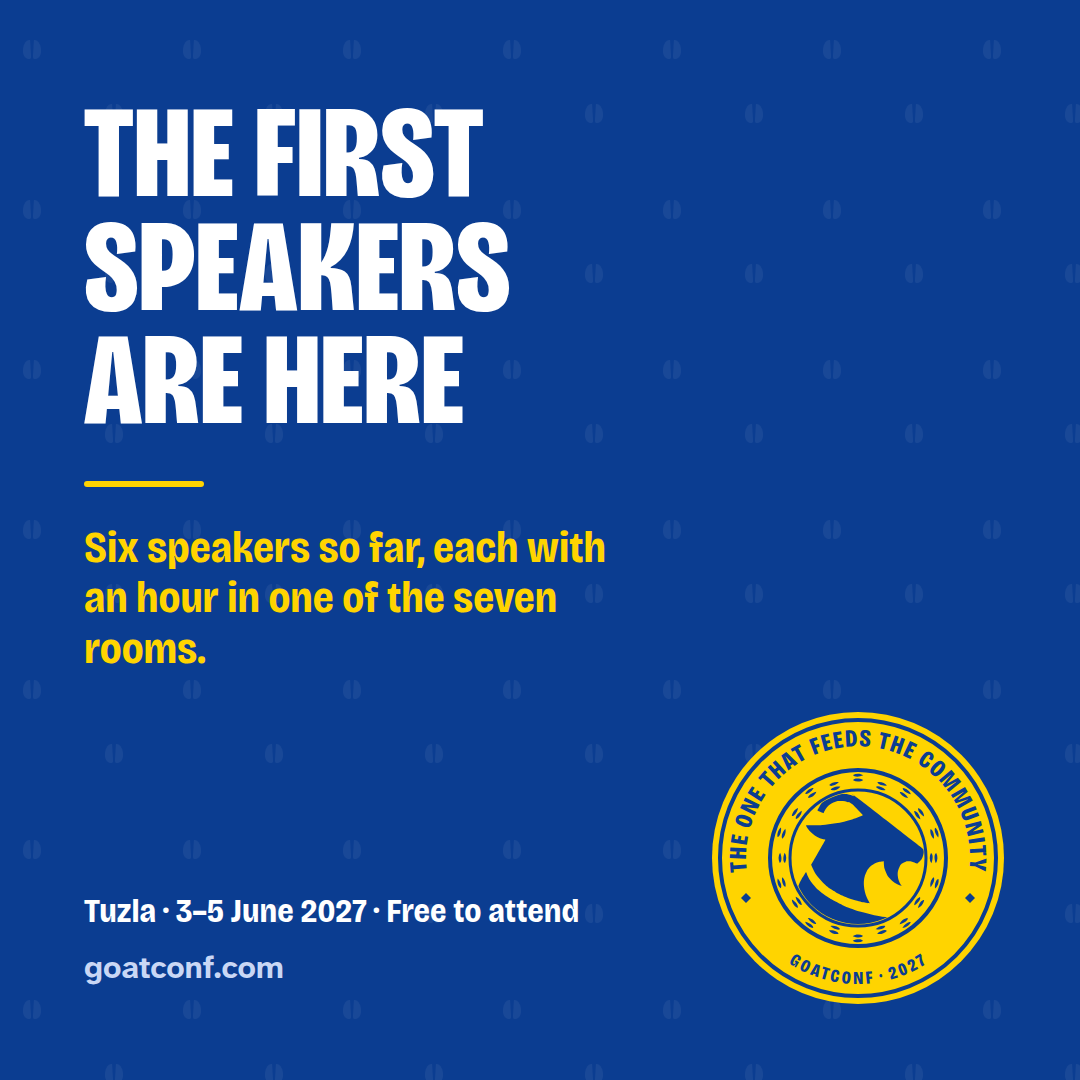
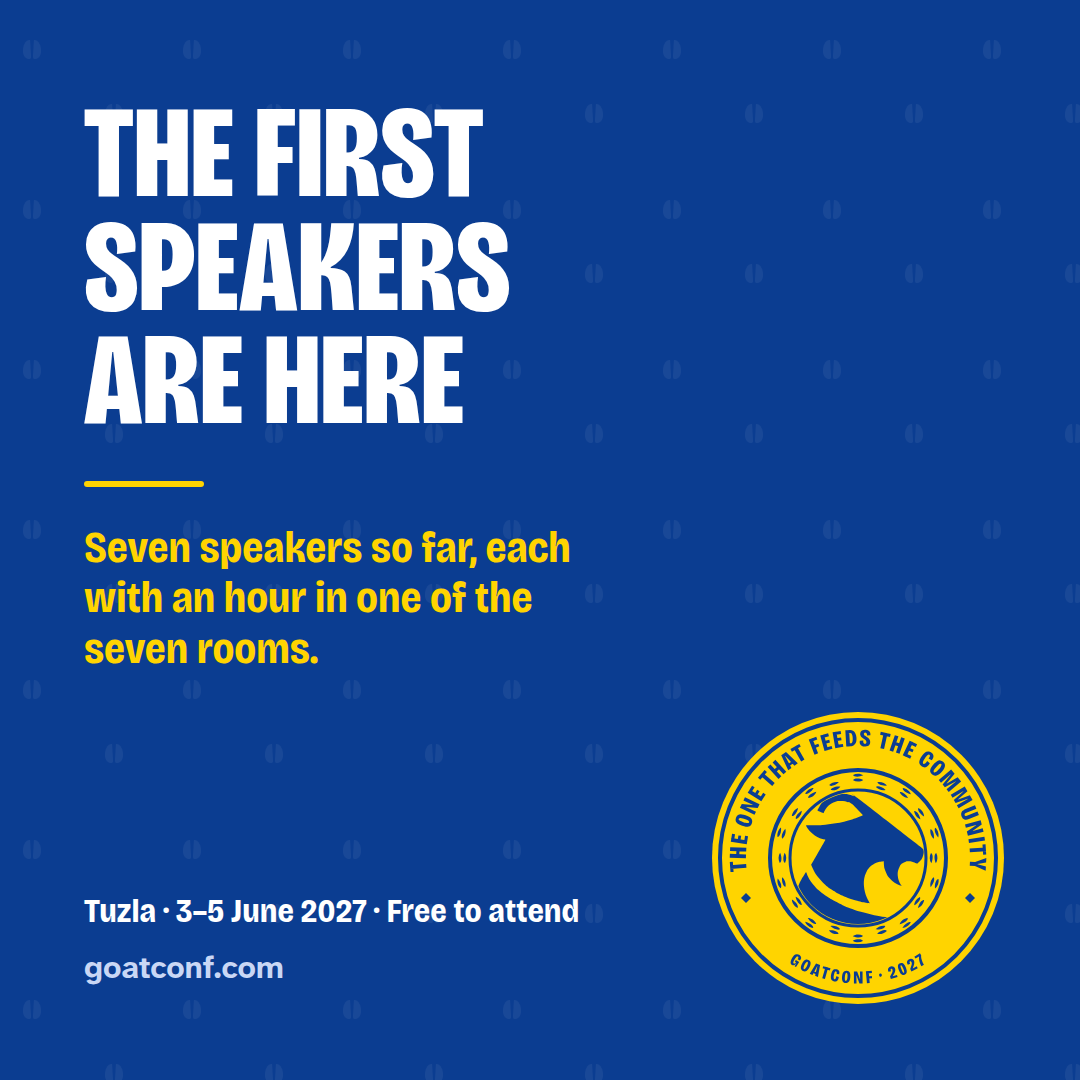
drumbeat: Roy Tomeij's spotlight takes week 10, and he joins the first speakers

diff --git a/files/tools/shareables.py b/files/tools/shareables.py
@@ -119,7 +119,7 @@ POSTS = {
     "run-a-session": ("Run a<br>session", "A talk, a panel, a workshop or something else. One hour, one room."),
     "register": ("Get your<br>free ticket", "Thursday and Friday for the talks, Saturday for the community."),
     "add-something": ("Propose<br>an event", "A workshop, a meetup, a dinner, a hike: run it around GoatConf."),
-    "first-speakers": ("The first<br>speakers<br>are here", "Six speakers so far, each with an hour in one of the seven rooms."),
+    "first-speakers": ("The first<br>speakers<br>are here", "Seven speakers so far, each with an hour in one of the seven rooms."),
     # The drumbeat to June 2027 (wiki/org/outreach/drumbeat.md)
     "why-a-goat": ("Why<br>a goat?", "The whole of Tuzla milked one goat."),
     "your-first-talk": ("Your<br>first talk?", "First-time speakers are welcome. A strong idea counts for more than a famous name."),
@@ -144,7 +144,6 @@ POSTS = {
 # Posts with a photo given for GoatConf, each with the credit line its giver asked for
 # (wiki/org/tuzla-images.md). The food photos are not freely licensed, so none is here.
 PHOTO_POSTS = {
-    "tuzla-on-a-budget": ("Tuzla on<br>a budget", "A meal about 4.60 €, a cappuccino 1.66 €, a day at the lakes 3.60 €.", "img/city-aerial-summer.jpg", "Photo: Grad Tuzla"),
     "getting-to-tuzla": ("Getting<br>to Tuzla", "Fly to Tuzla or Sarajevo, or come by bus.", "img/city-square-mosque-summer.jpg", "Photo: Grad Tuzla"),
     "an-hour-off": ("An hour<br>off", "After every session: Freedom Square, five minutes away.", "img/city-square-fountain-summer.jpg", "Photo: Grad Tuzla"),
     "where-to-stay": ("Where<br>to stay", "Hotels and guest houses a short walk from IPI Academy.", "img/city-korzo-clock.jpg", "Photo: Grad Tuzla"),

diff --git a/files/wiki/org/outreach/drumbeat-2026.md b/files/wiki/org/outreach/drumbeat-2026.md
@@ -2,11 +2,13 @@
 title: "The drumbeat, October to December 2026"
 kind: reference
 status: draft
-updated: 2026-10-19
+updated: 2026-10-20
 confidence: medium
 affects:
   - org
 sources:
+  - sources/conversations/2026-10-20--org--roy-tomeij-spotlight.md
+  - sources/conversations/2026-10-20--org--roy-tomeij.md
   - sources/conversations/2026-10-19--org--more-areas.md
   - sources/conversations/2026-10-19--org--business-and-people-sessions.md
   - sources/conversations/2026-10-18--org--social-plan-to-june.md
@@ -114,13 +116,14 @@ The posts in the order they go out. The calendar, the rules and what to do when 
 
 - **State:** drafted
 - **Image:** `post-first-speakers-square.png` (LinkedIn, Mastodon), `post-first-speakers-wide.png` (X, Bluesky)
-- **Tag:** each of the six speakers
+- **Tag:** each of the seven speakers
 - **Before posting:** When it goes, send each speaker their own card (speaker-<name>-square.png) and ask them to share it. Jan Grodowski stays out while his hold is on.
 - **LinkedIn:**
 
   > The first GoatConf 2027 speakers are here.
   >
   > Paul Campbell, Co-founder and CEO of Tito
+  > Roy Tomeij, Co-founder of AppSignal
   > Carmine Paolino, Creator of RubyLLM, founder of Plenty
   > Dejan Menges, Staff Engineer at Vinted, author of Enola
   > Amar Mahmutbegović, Co-founder and Head of Engineering at Semblie
@@ -131,11 +134,11 @@ The posts in the order they go out. The calendar, the rules and what to do when 
   >
   > More speakers are confirmed as proposals come in, so the call stays open: goatconf.com/talk
 
-- **Short** (203 characters):
+- **Short** (215 characters):
 
-  > The first GoatConf 2027 speakers: Paul Campbell, Carmine Paolino, Dejan Menges, Amar Mahmutbegović, Cristian Planas and Christoph Lipautz, each with an hour in Tuzla on 3 or 4 June. goatconf.com/speakers
+  > The first GoatConf 2027 speakers: Paul Campbell, Roy Tomeij, Carmine Paolino, Dejan Menges, Amar Mahmutbegović, Cristian Planas and Christoph Lipautz, each with an hour in Tuzla on 3 or 4 June. goatconf.com/speakers
 
-  Sources: sources/conversations/2026-10-14--org--speaker-order.md, sources/conversations/2026-10-15--org--hold-jan-grodowski.md, sources/conversations/2026-10-15--org--christoph-lipautz.md.
+  Sources: sources/conversations/2026-10-14--org--speaker-order.md, sources/conversations/2026-10-20--org--roy-tomeij-spotlight.md, sources/conversations/2026-10-15--org--hold-jan-grodowski.md, sources/conversations/2026-10-15--org--christoph-lipautz.md.
 
 ### Tue 10 Nov 2026, week 5: Propose an event
 
@@ -234,24 +237,24 @@ The posts in the order they go out. The calendar, the rules and what to do when 
 
   Sources: sources/conversations/2026-10-14--org--carmine-paolino.md.
 
-### Tue 15 Dec 2026, week 10: Tuzla on a budget
+### Tue 15 Dec 2026, week 10: Speaker: Roy Tomeij
 
 - **State:** drafted
-- **Image:** `post-tuzla-on-a-budget-square.png` (LinkedIn, Mastodon), `post-tuzla-on-a-budget-wide.png` (X, Bluesky)
-- **Before posting:** Prices were checked in October 2026; recheck the travel page the week it goes out.
+- **Image:** `speaker-roy-tomeij-square.png` (LinkedIn, Mastodon), `speaker-roy-tomeij-wide.png` (X, Bluesky)
+- **Tag:** Roy Tomeij and AppSignal
 - **LinkedIn:**
 
-  > GoatConf is free, and Tuzla is kind to your wallet too.
+  > Meet a GoatConf 2027 speaker: Roy Tomeij.
   >
-  > A simple meal costs about 4.60 euro, a cappuccino about 1.66 euro, and a day at the salt lakes 3.60 euro on weekdays (summer 2026 prices). Central hotels started at about 73 euro a night on a hotel search site in October, and guest houses near IPI Academy for less.
+  > Roy co-founded AppSignal, monitoring and logging for Ruby on Rails, which raised a $22M Series A in 2025. AppSignal's founders have been part of the Rails community since 2005, and Roy has spoken at RailsConf and EuRuKo. Now he works with founders and leadership teams on customer experience, operations and growth.
   >
-  > The travel page has the prices, the places to stay near the venue and how to get here: goatconf.com/travel
+  > He's speaking in Tuzla on 3 or 4 June 2027. His profile: goatconf.com/speaker-roy-tomeij
 
-- **Short** (181 characters):
+- **Short** (201 characters):
 
-  > Tuzla is kind to your wallet: a meal about 4.60 €, a cappuccino about 1.66 €, a day at the salt lakes 3.60 €. GoatConf itself is free. Prices and places to stay: goatconf.com/travel
+  > Meet a GoatConf 2027 speaker: Roy Tomeij, co-founder of AppSignal, monitoring and logging for Ruby on Rails, and a RailsConf and EuRuKo speaker. In Tuzla on 3 or 4 June. goatconf.com/speaker-roy-tomeij
 
-  Sources: sources/web/tuzla/numbeo-cost-of-living-tuzla.md, sources/web/tuzla/slana-jezera-cijene-kurir-2026-08.md, sources/web/tuzla/hotelscombined-tuzla.md, sources/web/tuzla/places-research-2026-10-12.md.
+  Sources: sources/conversations/2026-10-20--org--roy-tomeij.md, sources/conversations/2026-10-20--org--roy-tomeij-spotlight.md, sources/web/speakers/appsignal-roy-tomeij-2026-10-20.md, sources/web/speakers/rubyevents-roy-tomeij-2026-10-20.md.
 
 ### Tue 22 Dec 2026, week 11: Your first talk?
 

diff --git a/files/wiki/index.md b/files/wiki/index.md
@@ -18,7 +18,7 @@ what is proposed is on the [pitches hub](org/pitches/index.md).
 ## What changed
 
 <!-- home-section: filled; maintained-by: /shape; updated: 2026-10-20 -->
-- **2026-10-20**: **Roy Tomeij, co-founder of AppSignal, is a confirmed speaker.** Second on the speakers list after Paul Campbell, with a profile, a photo from his own site and share cards; a seventh main-hall slot, Thursday 16:00, is reserved ([his page](org/speakers/roy-tomeij.md); [source](../sources/conversations/2026-10-20--org--roy-tomeij.md)).
+- **2026-10-20**: **Roy Tomeij, co-founder of AppSignal, is a confirmed speaker.** Second on the speakers list after Paul Campbell, with a profile, a photo from his own site and share cards; a seventh main-hall slot, Thursday 16:00, is reserved ([his page](org/speakers/roy-tomeij.md); [source](../sources/conversations/2026-10-20--org--roy-tomeij.md)). His drumbeat spotlight takes Tuesday 15 December, week 10, in place of "Tuzla on a budget", and he joins week 4's first speakers ([October to December 2026](org/outreach/drumbeat-2026.md); [the calendar](org/outreach/drumbeat.md); [source](../sources/conversations/2026-10-20--org--roy-tomeij-spotlight.md)).
 - **2026-10-20**: **The contact form offers Volunteering.** Its "What is it about?" question gains the choice, after the contact page began inviting volunteers, and its description names volunteering ([source](../sources/conversations/2026-10-20--org--contact-form-description-volunteering.md)) ([what is known](org/goatconf-2027.md); [source](../sources/conversations/2026-10-20--org--contact-form-volunteering.md)). This session's other pages: [the page frame ADR](org/adrs/one-page-frame-and-one-site-build.md), [the 2026 drumbeat](org/outreach/drumbeat-2026.md), [January to March 2027](org/outreach/drumbeat-2027-jan-mar.md).
 - **2026-10-20**: **The contact page names students and volunteering.** Its lede lists volunteering, and its other ways in say students are welcome and volunteers write in through the form; and the talk page's list of what speakers get drops the free ticket, which everyone has ([source](../sources/conversations/2026-10-20--org--no-free-ticket-in-what-speakers-get.md)) ([what is known](org/goatconf-2027.md); [source](../sources/conversations/2026-10-20--org--contact-page-students-and-volunteers.md)).
 - **2026-10-20**: **An outside site review, gone through one by one.** Most of its findings were already fixed or decided; from the rest the talk page now lists the rooms and their seats, offers first-time speakers a call and a rehearsal at IPI Academy on 2 June, and names Hotel Vertigos as one pick, and the register page welcomes students and volunteers ([what is known](org/goatconf-2027.md); [source](../sources/conversations/2026-10-20--org--outside-site-review-followups.md)). Earlier this session: [the page frame ADR](org/adrs/one-page-frame-and-one-site-build.md), [the 2026 drumbeat](org/outreach/drumbeat-2026.md), [January to March 2027](org/outreach/drumbeat-2027-jan-mar.md).

diff --git a/files/wiki/org/outreach/drumbeat.md b/files/wiki/org/outreach/drumbeat.md
@@ -2,11 +2,12 @@
 title: "The drumbeat: the weekly posts, from launch to June 2027"
 kind: reference
 status: draft
-updated: 2026-10-18
+updated: 2026-10-20
 confidence: medium
 affects:
   - org
 sources:
+  - sources/conversations/2026-10-20--org--roy-tomeij-spotlight.md
   - sources/conversations/2026-10-18--org--social-plan-to-june.md
   - sources/conversations/2026-10-15--org--drafting-the-first-posts.md
   - sources/conversations/2026-10-15--org--announcing-on-linkedin-and-x.md
@@ -47,7 +48,7 @@ The texts are on three pages: [October to December 2026](drumbeat-2026.md), [Jan
 | Tue 24 Nov 2026 | week 7 | [Speaker: Paul Campbell](drumbeat-2026.md) | `speaker-paul-campbell` | drafted |
 | Tue 1 Dec 2026 | week 8 | [Thank you, IPI Academy](drumbeat-2026.md) | `supporter-ipi-academy` | drafted |
 | Tue 8 Dec 2026 | week 9 | [Speaker: Carmine Paolino](drumbeat-2026.md) | `speaker-carmine-paolino` | drafted |
-| Tue 15 Dec 2026 | week 10 | [Tuzla on a budget](drumbeat-2026.md) | `post-tuzla-on-a-budget` | drafted |
+| Tue 15 Dec 2026 | week 10 | [Speaker: Roy Tomeij](drumbeat-2026.md) | `speaker-roy-tomeij` | drafted |
 | Tue 22 Dec 2026 | week 11 | [Your first talk?](drumbeat-2026.md) | `post-your-first-talk` | drafted |
 | Tue 29 Dec 2026 | week 12 | [See you in June](drumbeat-2026.md) | `post-see-you-in-june` | drafted |
 | Tue 5 Jan 2027 | week 13 | [Speaker: Dejan Menges](drumbeat-2027-jan-mar.md) | `speaker-dejan-menges` | drafted |

diff --git a/files/sources/conversations/2026-10-20--org--roy-tomeij-spotlight.md b/files/sources/conversations/2026-10-20--org--roy-tomeij-spotlight.md
@@ -1,0 +1,19 @@
+---
+title: "Roy Tomeij's spotlight takes week 10 of the drumbeat"
+date: 2026-10-20
+kind: conversation
+---
+
+Told that the drumbeat had no spotlight for Roy Tomeij, the organiser
+wrote, verbatim:
+
+> Ok, add it
+
+Every Tuesday to June already had a post. Asked where his spotlight goes,
+the organiser chose "Replace a Tuesday post": Roy takes Tuesday
+15 December 2026, week 10, and that week's "Tuzla on a budget" post is
+dropped, with its image.
+
+Since he is confirmed before Tuesday 3 November 2026, Roy also joins week
+4's "The first speakers are here" post and its image, which now count
+seven speakers.
